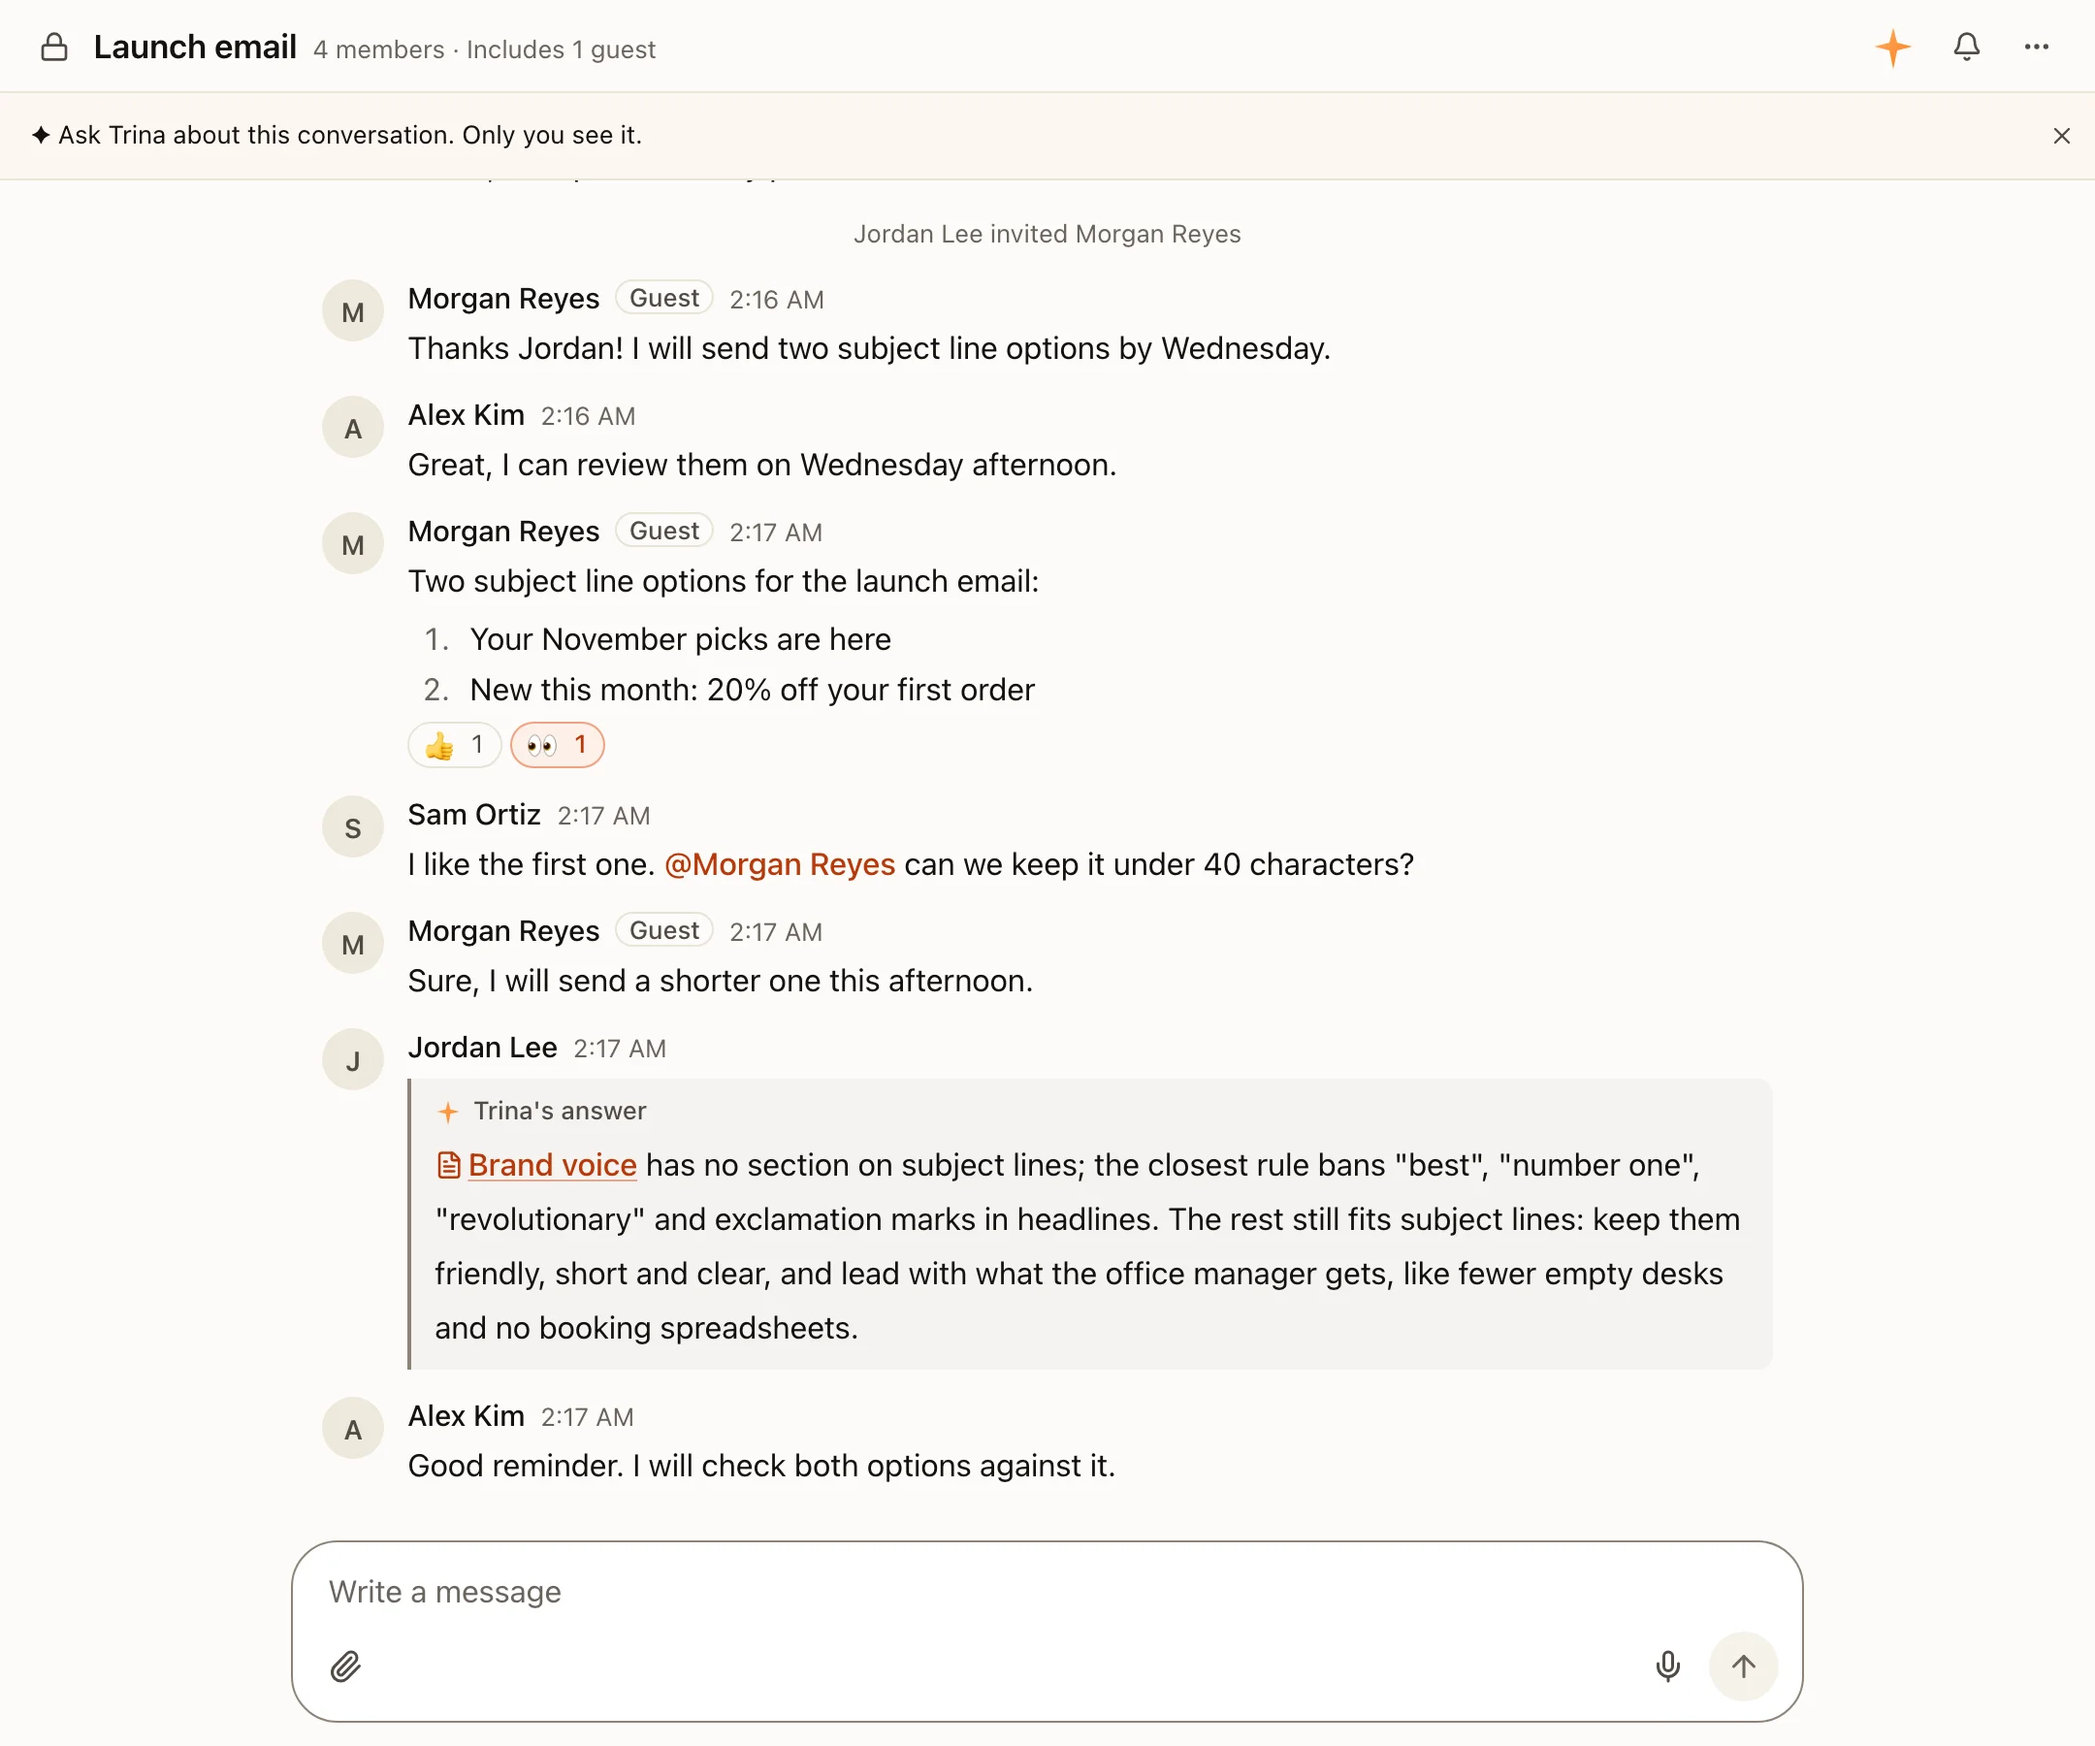
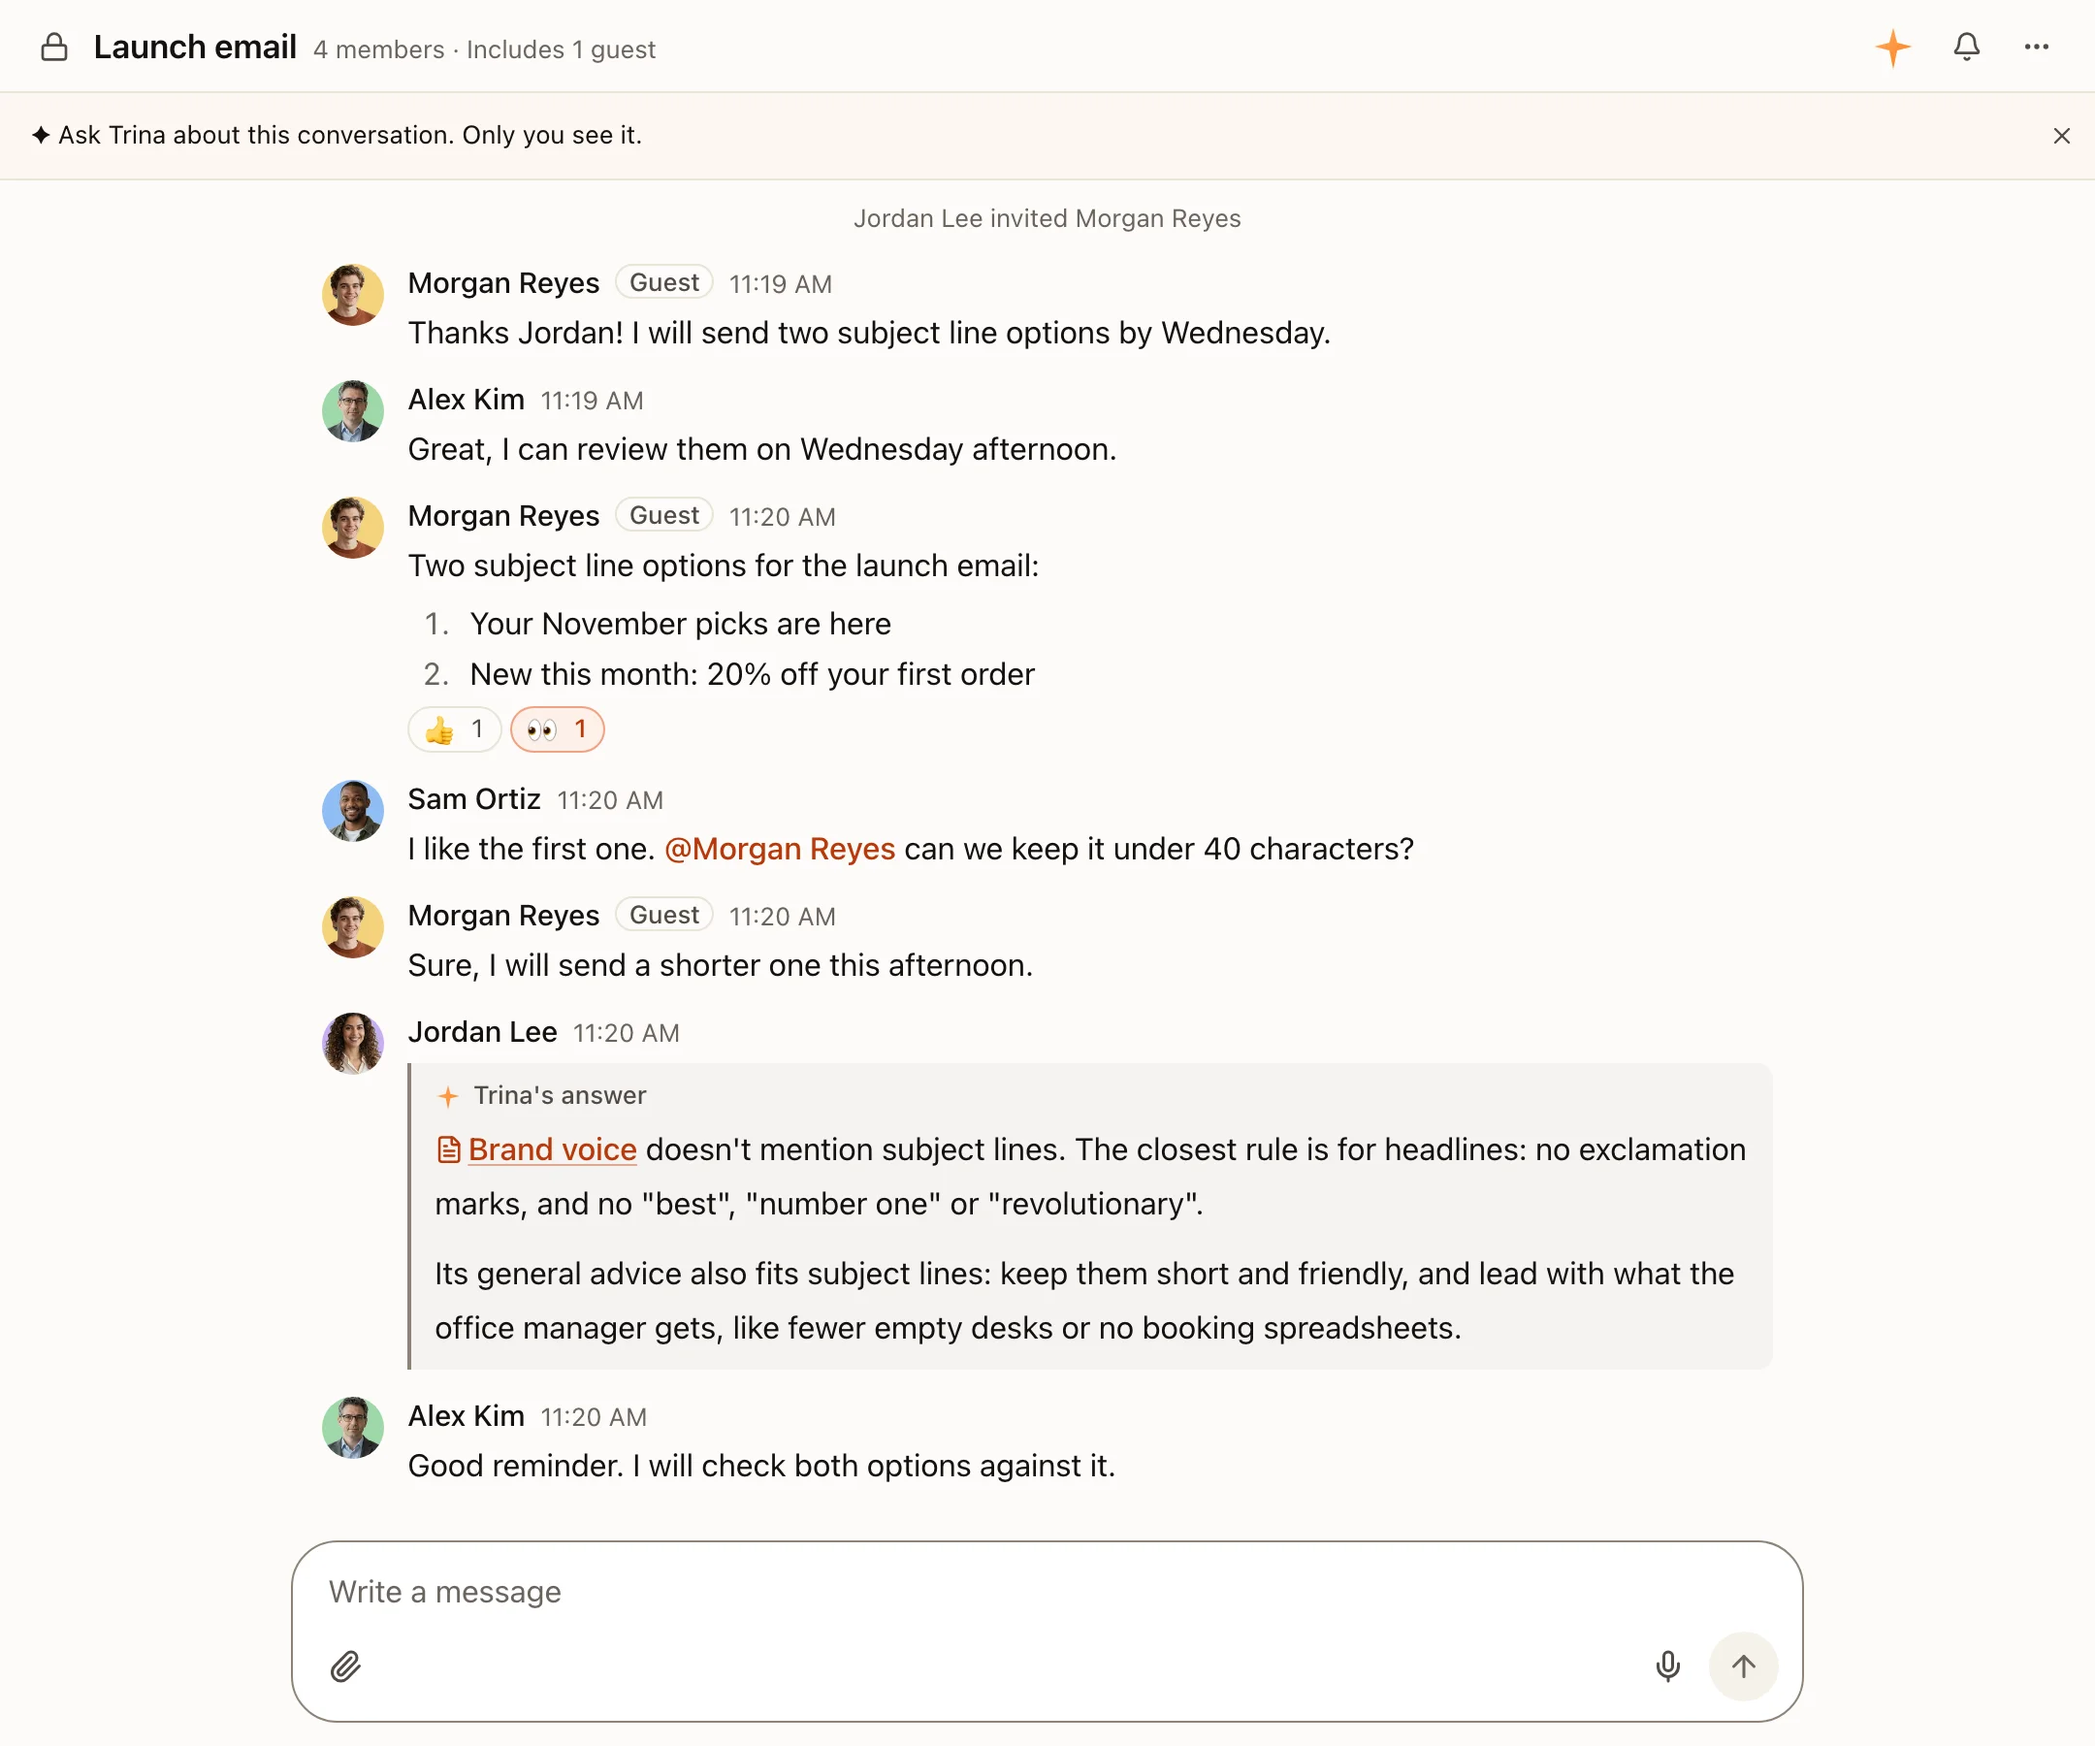
README: profile photos in the chat pictures, eight team skills, a star button that goes to the Star button
- Team chat and guest pictures reshot with profile photos (fictional people).
- Team skills picture with eight skills.
- The star button linked to the page itself, which keeps a signed-in visitor
  where they are; it now opens ?tab=readme-ov-file (the top of the page, where
  GitHub's Star button is) and the line under it says to press Star there.
  /stargazers is not used: GitHub shows it as not found when signed out.

diff --git a/README.es.md b/README.es.md
@@ -17,7 +17,7 @@ Trina AX reúne los archivos, las skills y las herramientas de tu equipo en un s
 
 https://github.com/user-attachments/assets/4d795cf7-202c-4299-9d74-d0d569a1869f
 
-<p align="center"><sub>Mismo Claude, misma petición, distinto resultado. La historia en 97 segundos.</sub><br>Código abierto (AGPL-3.0) · Autoalojamiento gratis, sin límite de personas<br><br><a href="https://github.com/trina-app/trina-ax"><img src="docs/images/readme/v4/star-es.png" height="44" alt="Danos una estrella en GitHub"></a><br><sub>Si Trina AX puede servirle a tu equipo, una estrella ayuda a que más equipos lo encuentren.</sub></p>
+<p align="center"><sub>Mismo Claude, misma petición, distinto resultado. La historia en 97 segundos.</sub><br>Código abierto (AGPL-3.0) · Autoalojamiento gratis, sin límite de personas<br><br><a href="https://github.com/trina-app/trina-ax?tab=readme-ov-file"><img src="docs/images/readme/v4/star-es.png" height="44" alt="Danos una estrella en GitHub"></a><br><sub>Después pulsa ☆ Star arriba de la página. Una estrella ayuda a que más equipos encuentren Trina AX.</sub></p>
 
 ## Se configura una vez. Lo usa todo tu equipo.
 

diff --git a/README.ko.md b/README.ko.md
@@ -17,7 +17,7 @@
 
 https://github.com/user-attachments/assets/4d795cf7-202c-4299-9d74-d0d569a1869f
 
-<p align="center"><sub>같은 Claude, 같은 부탁, 다른 결과. 97초 이야기예요.</sub><br>오픈소스(AGPL-3.0) · 직접 설치는 무료, 인원 제한 없음<br><br><a href="https://github.com/trina-app/trina-ax"><img src="docs/images/readme/v4/star-ko.png" height="44" alt="GitHub에서 트리나 AX에 별 눌러 주기"></a><br><sub>우리 팀에도 쓸모 있겠다 싶으면 별을 눌러 주세요. 더 많은 팀이 트리나 AX를 찾게 돼요.</sub></p>
+<p align="center"><sub>같은 Claude, 같은 부탁, 다른 결과. 97초 이야기예요.</sub><br>오픈소스(AGPL-3.0) · 직접 설치는 무료, 인원 제한 없음<br><br><a href="https://github.com/trina-app/trina-ax?tab=readme-ov-file"><img src="docs/images/readme/v4/star-ko.png" height="44" alt="GitHub에서 트리나 AX에 별 눌러 주기"></a><br><sub>버튼을 누른 뒤 페이지 맨 위의 ☆ Star를 눌러 주세요. 별 하나가 더 많은 팀이 트리나 AX를 찾게 도와줘요.</sub></p>
 
 ## 한 번 설정하면, 팀 전체가 써요
 

diff --git a/README.md b/README.md
@@ -17,7 +17,7 @@ English · [한국어](README.ko.md) · [日本語](README.ja.md) · [Español](
 
 https://github.com/user-attachments/assets/4d795cf7-202c-4299-9d74-d0d569a1869f
 
-<p align="center"><sub>Same Claude, same request, different result. The 97-second story.</sub><br>Open source (AGPL-3.0) · Self-host free, no seat limit<br><br><a href="https://github.com/trina-app/trina-ax"><img src="docs/images/readme/v4/star-en.png" height="44" alt="Star Trina AX on GitHub"></a><br><sub>If Trina AX could help your team, a star helps more teams find it.</sub></p>
+<p align="center"><sub>Same Claude, same request, different result. The 97-second story.</sub><br>Open source (AGPL-3.0) · Self-host free, no seat limit<br><br><a href="https://github.com/trina-app/trina-ax?tab=readme-ov-file"><img src="docs/images/readme/v4/star-en.png" height="44" alt="Star Trina AX on GitHub"></a><br><sub>Then press ☆ Star at the top of the page. A star helps more teams find Trina AX.</sub></p>
 
 ## Set up once. Your whole team gets it.
 

diff --git a/docs/AGENTS/plan/20261118-1134-readme-set-up-once.md b/docs/AGENTS/plan/20261118-1134-readme-set-up-once.md
@@ -77,3 +77,7 @@ Out:
   alike); the 40 repos with the most stars now ask in 15%, near the top or at the end, "if it's useful, a star helps
   others find it", no rewards (GitHub's rules). An orange "Star Trina AX on GitHub" button with that line goes under
   the film, and one line opens Community.
+- Follow-up (founder, 11/19): profile photos (the website's fictional people) on the team chat and guest pictures; eight
+  team skills in the skills picture; the star button links to `?tab=readme-ov-file` (a link to the page itself keeps
+  a signed-in visitor where they are, and `/stargazers` is 404 when signed out since GitHub closed stargazer lists) and
+  says to press Star at the top of the page.
